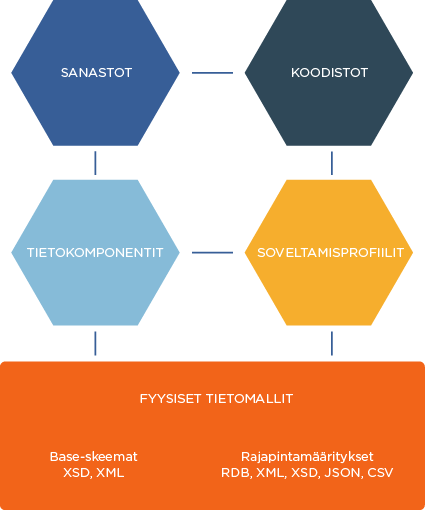
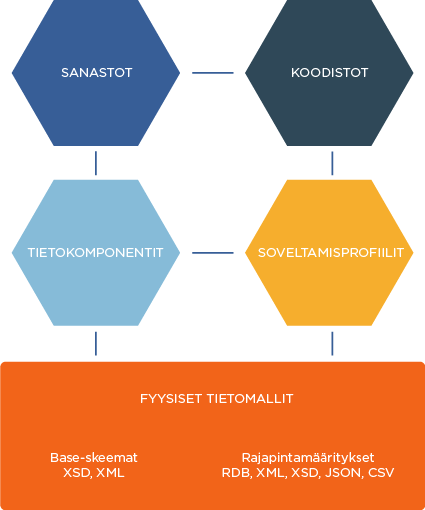
Add localized fronpage image and transparent bg version of old one

diff --git a/src/components/frontPage.ts b/src/components/frontPage.ts
@@ -13,6 +13,7 @@ import { Url } from '../services/uri';
 import { module as mod }  from './module';
 
 const frontPageImage = require('../assets/iow_etusivu_kuva.png');
+const frontPageImageEn = require('../assets/iow_etusivu_kuva-en.png');
 
 mod.directive('frontPage', () => {
   return {
@@ -67,7 +68,7 @@ export class FrontPageController {
       case 'fi':
         return frontPageImage;
       case 'en':
-        return frontPageImage;
+        return frontPageImageEn;
       default:
         return frontPageImage;
     }
